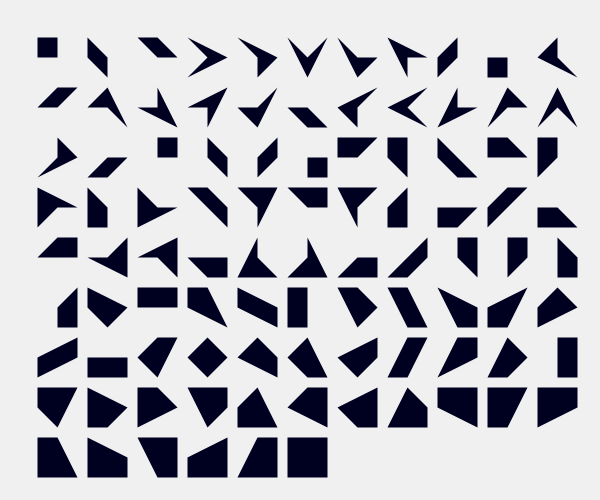
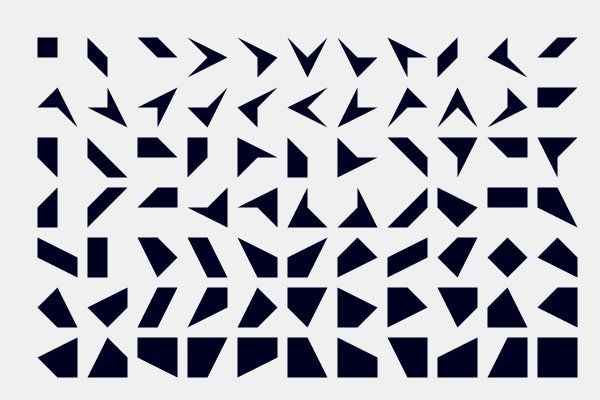
15 update
decide to try at least translation elimination

diff --git a/2024/sketch_2024_04_15/shape.py b/2024/sketch_2024_04_15/shape.py
@@ -12,7 +12,8 @@ class Shape(object):
     remove_flipped = False
 
     def __init__(self, iterable):
-        self.points = tuple([Point(*s) for s in iterable])
+        self.points = tuple(Point(*s) for s in iterable)
+        self.translate_points()
         self.poly = Polygon(self.points)
         self.is_valid = self.points and self.poly.is_valid
         self.area = self.poly.area
@@ -68,6 +69,13 @@ class Shape(object):
     def flip(self):
         """Return a Shape flipped"""
         return Shape((-x, y) for x, y in self)
+
+    def translate_points(self):
+        """Return a Shape Translated to 0,0"""
+        minX = min(s.x for s in self.points)
+        minY = min(s.y for s in self.points)
+        self.points = tuple(Point(x - minX, y - minY) for x, y
+                            in self.points)
 
     def translate(self):
         """Return a Shape Translated to 0,0"""

diff --git a/2024/sketch_2024_04_15/sketch_2024_04_15.py b/2024/sketch_2024_04_15/sketch_2024_04_15.py
@@ -12,7 +12,7 @@ name = "shapes"
 
 def setup():
     global polys
-    py5.size(600, 500)  
+    py5.size(600, 400)  
     grid = product((0, 1, 2), (0, 1, 2))  # 3X3
     pts = list(grid)
     polys = []
